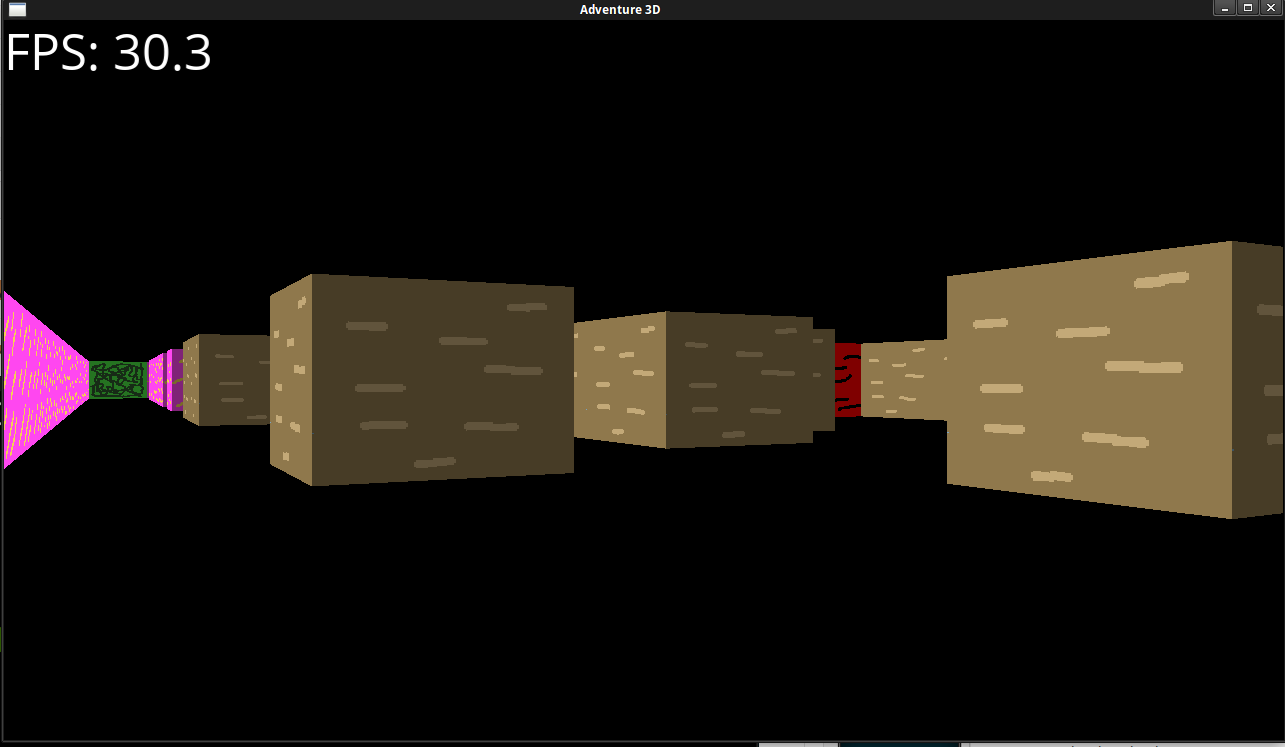
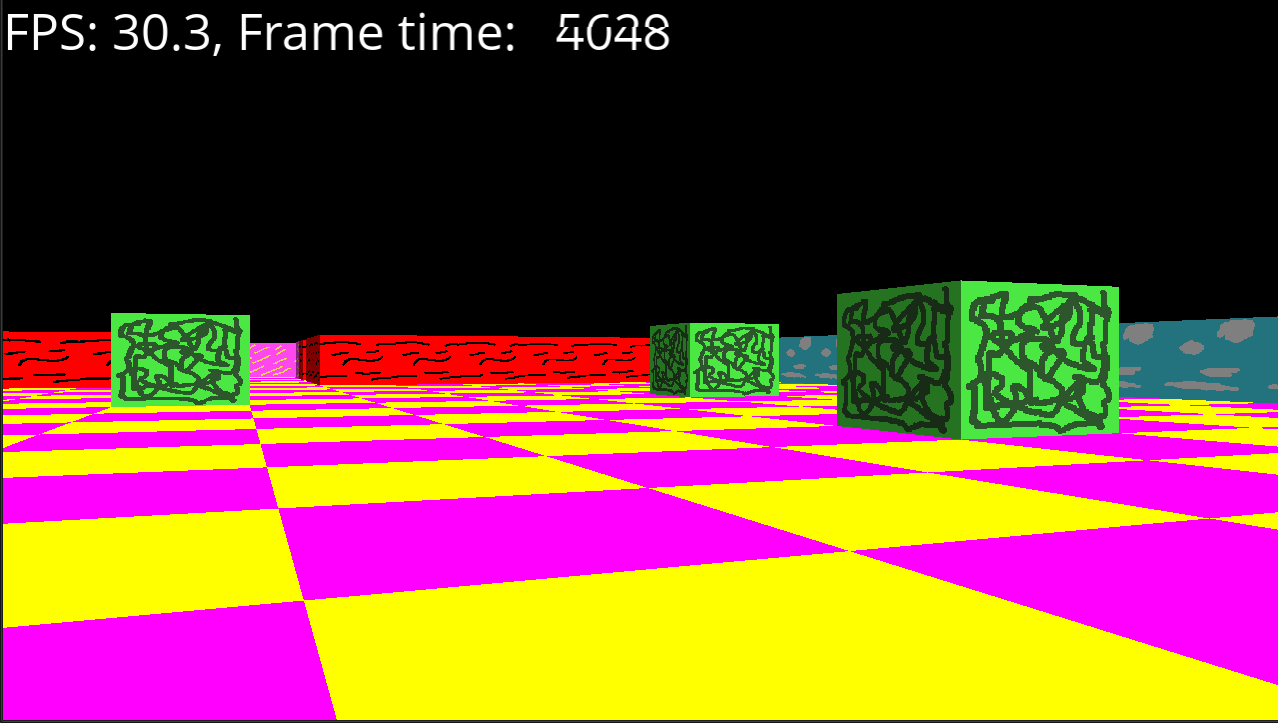
initial version of floor rendering

diff --git a/src/main.cpp b/src/main.cpp
@@ -304,35 +304,49 @@ int main() {
             char tile = '.'; // tile type that got hit
             bool horizontal; // did we hit a horizontal side? Otherwise it's vertical
 
-            // cast the ray until we hit a wall
+            float perpWallDist = 0.0f; // wall distance, projected on camera direction
+            int wallHeight; // height of wall to draw on the screen at each distance
+            int groundPixel = screenHeight; // position of ground pixel on the screen
+
+            // colors for floor tiles
+            sf::Color color1 = sf::Color::Yellow;
+            sf::Color color2 = sf::Color::Magenta;
+
+            // current floor color
+            sf::Color color = ((mapPos.x % 2 == 0 && mapPos.y % 2 == 0) ||
+                               (mapPos.x % 2 == 1 && mapPos.y % 2 == 1)) ? color1 : color2;
+
+            // cast the ray until we hit a wall, meanwhile draw floors
             while (tile == '.') {
                 if (sideDist.x < sideDist.y) {
                     sideDist.x += deltaDist.x;
                     mapPos.x += step.x;
                     horizontal = true;
+                    perpWallDist = (mapPos.x - rayPos.x + (1 - step.x) / 2) / rayDir.x;
                 } else {
                     sideDist.y += deltaDist.y;
                     mapPos.y += step.y;
                     horizontal = false;
+                    perpWallDist = (mapPos.y - rayPos.y + (1 - step.y) / 2) / rayDir.y;
                 }
+
+                wallHeight = screenHeight / perpWallDist;
+
+                // start of ground line is border of previous tile
+                lines.append(sf::Vertex(sf::Vector2f((float)x, (float)groundPixel), color, sf::Vector2f(385.0f, 129.0f)));
+
+                // end of ground line is border of this tile
+                groundPixel = wallHeight / 2 + screenHeight / 2;
+                lines.append(sf::Vertex(sf::Vector2f((float)x, (float)groundPixel), color, sf::Vector2f(385.0f, 129.0f)));
+
+                color = (color == color1) ? color2 : color1;
 
                 tile = getTile(mapPos.x, mapPos.y);
             }
 
-            // calculate wall distance, projected on camera direction
-            float perpWallDist;
-            if (horizontal) {
-                perpWallDist = (mapPos.x - rayPos.x + (1 - step.x) / 2) / rayDir.x;
-            } else {
-                perpWallDist = (mapPos.y - rayPos.y + (1 - step.y) / 2) / rayDir.y;
-            }
-
-            // calculate height of line to draw on the screen
-            int lineHeight = screenHeight / perpWallDist;
-
             // calculate lowest and highest pixel to fill in current line
-            int drawStart = -lineHeight / 2 + screenHeight / 2;
-            int drawEnd = lineHeight / 2 + screenHeight / 2;
+            int drawStart = -wallHeight / 2 + screenHeight / 2;
+            int drawEnd = groundPixel;
 
             // get position of the wall texture in the full texture
             int wallTextureNum = (int)wallTypes.find(tile)->second;
@@ -361,7 +375,7 @@ int main() {
             texture_coords.x += tex_x;
 
             // illusion of shadows by making horizontal walls darker
-            sf::Color color = sf::Color::White;
+            color = sf::Color::White;
             if (horizontal) {
                 color.r /= 2;
                 color.g /= 2;
